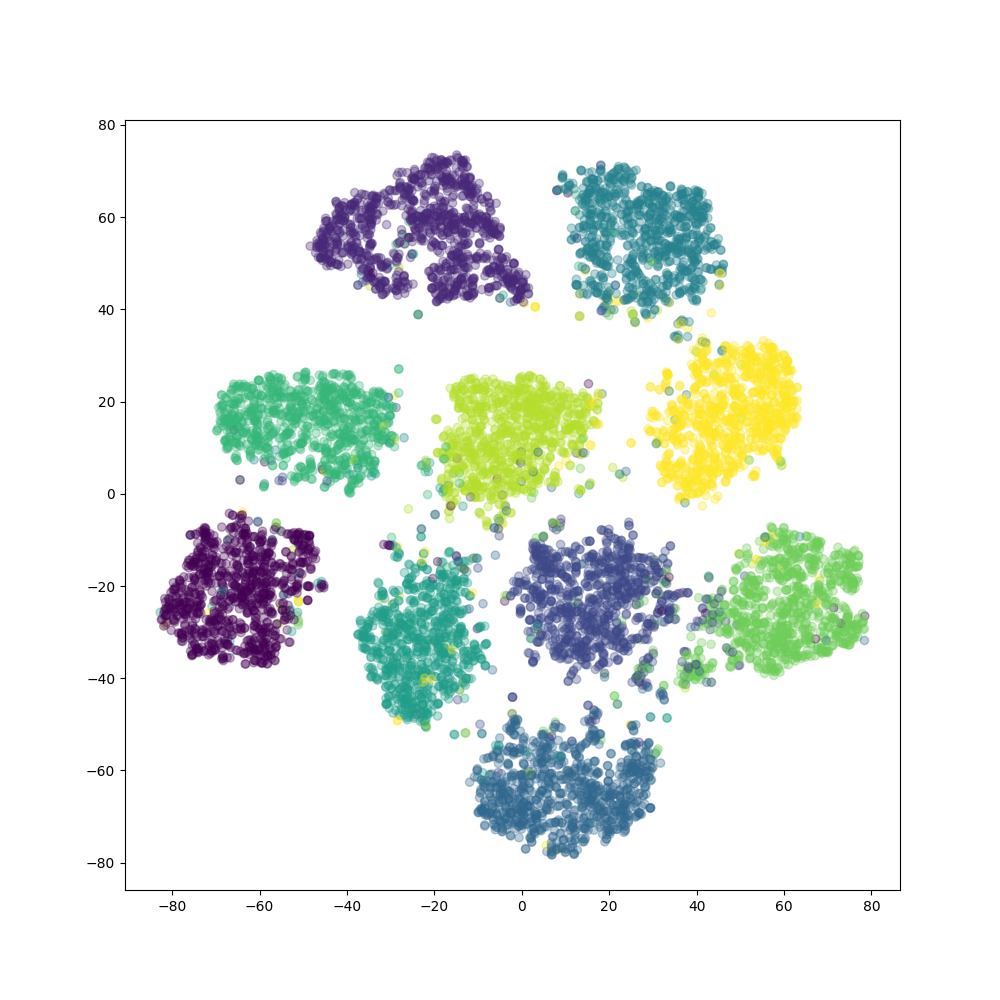
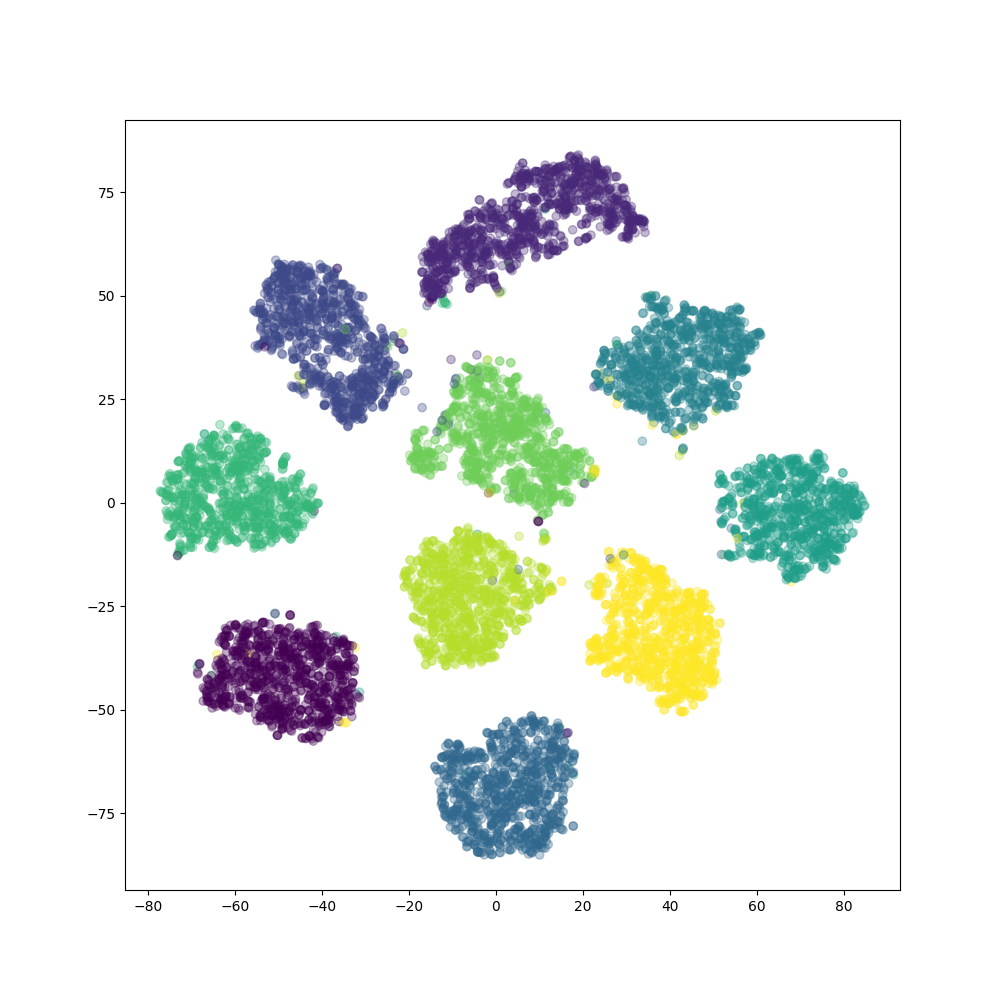
change cnn arch, modify arcface hyperparam

diff --git a/mnist_metric_learning.py b/mnist_metric_learning.py
@@ -54,7 +54,7 @@ class AdditiveAngularMarginLoss(tf.keras.Model):
 
     reference: https://arxiv.org/abs/1801.07698
     """
-    def __init__(self, s=30, m=.5, num_classes=10):
+    def __init__(self, s=16, m=.3, num_classes=10):
         super(AdditiveAngularMarginLoss, self).__init__()
         self.s = s
         self.m = m
@@ -79,9 +79,11 @@ class ConvNet(tf.keras.Model):
     def __init__(self, n_hidden=128, num_classes=10, last_linear='cosine'):
         super(ConvNet, self).__init__()
         self.features = tf.keras.Sequential([
-            ConvBlock(in_channels=1, out_channels=8, kernel_size=3, strides=2, padding=0,
+            ConvBlock(in_channels=1, out_channels=32, kernel_size=3, strides=1, padding=0,
                       data_format='channels_last', name='features/conv1'),
-            ConvBlock(in_channels=8, out_channels=16, kernel_size=3, strides=2, padding=0,
+            ConvBlock(in_channels=32, out_channels=64, kernel_size=3, strides=1, padding=0,
+                      data_format='channels_last', name='features/conv2'),
+            ConvBlock(in_channels=64, out_channels=64, kernel_size=3, strides=1, padding=0,
                       data_format='channels_last', name='features/conv2'),
             GlobalMaxPooling2D(data_format='channels_last', name='pool'),
             Dense(units=n_hidden, name='features/fc1'),
@@ -110,7 +112,7 @@ def main(verbose=0):
     train_dataset = tf.data.Dataset.from_tensor_slices((x_train, y_train)).batch(BATCH_SIZE)
     valid_dataset = tf.data.Dataset.from_tensor_slices((x_valid, y_valid)).batch(BATCH_SIZE)
 
-    def train_model(model, criterion, optimizer, max_epochs, min_acc=.94):
+    def train_model(model, criterion, optimizer, max_epochs, min_acc=.98):
         train_loss = tf.keras.metrics.Mean()
         test_loss = tf.keras.metrics.Mean()
         train_accuracy = tf.keras.metrics.SparseCategoricalAccuracy()
@@ -187,7 +189,6 @@ def main(verbose=0):
     plot_feature(model, 'hidden', 'plots/mnist_metric_learning_hidden_tsne.png')
     plot_feature(model, 'logits', 'plots/mnist_metric_learning_logits_tsne.png')
 
-
     model = ConvNet(n_hidden=128, num_classes=10, last_linear='linear')
     criterion = tf.keras.losses.SparseCategoricalCrossentropy(from_logits=True)
     optimizer = tf.keras.optimizers.Adam(learning_rate=LEARNING_RATE)
@@ -198,7 +199,7 @@ def main(verbose=0):
 
 if __name__ == '__main__':
     parser = argparse.ArgumentParser(description='parameters for program')
-    parser.add_argument('--gpu', default='1', help='gpu device id expose to program, default is cpu only.')
+    parser.add_argument('--gpu', default='', help='gpu device id expose to program, default is cpu only.')
     parser.add_argument('--verbose', type=int, default=1)
     args = parser.parse_args()
     os.environ['CUDA_VISIBLE_DEVICES'] = args.gpu
